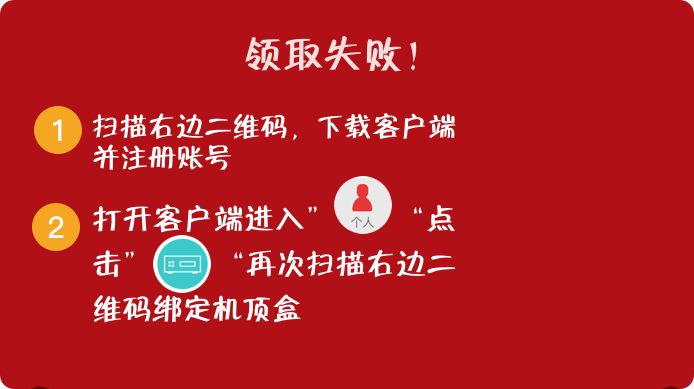
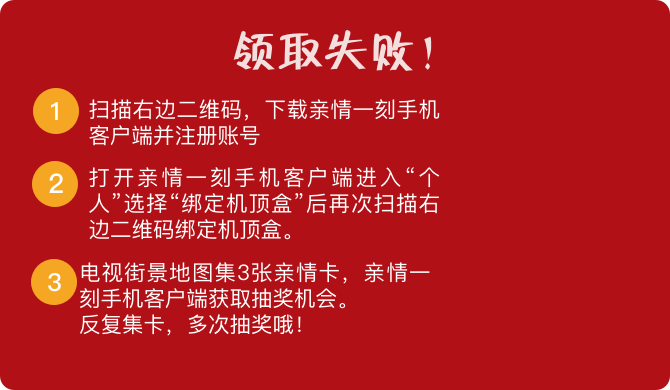
update

diff --git a/pages/familyCard/familyCard.js b/pages/familyCard/familyCard.js
@@ -3,6 +3,7 @@
  */
 !function (window, document) {
     var INF_URL = "http://10.191.255.121:18080/family/";
+    /*var INF_URL = "http://localhost:82/";*/
 
     var showFamilyCard = function () {
         $.ajax({
@@ -23,6 +24,19 @@
 
                 } else {
                     console.error("获取亲情卡数量失败");
+                }
+            }
+        });
+
+        $.ajax({
+            url: INF_URL + "lottery/getFamilyTimes?deviceNo=" + GHSMLib.cardId,
+            type: "GET",
+            success: function (data) {
+                if (data.success) {
+                    $("#lotteryTimes").html(data.result);
+                    $(".lotteryTimes").css("opacity", "1");
+                } else {
+                    console.error("获取抽奖次数失败");
                 }
             }
         });
@@ -127,12 +141,12 @@
                     var escapeDeviceNo = data.result.encryStr;
                     var downloadurl = "http://t.cn/RG8jxjR";
                     var qrurl = "http://172.16.188.13/api/common/Image/qrCode.png?text="
-                        + downloadurl + "?stbid=" + escapeDeviceNo + "&size=";
+                        + downloadurl + "?stbid=" + escapeDeviceNo + "%26isOpen=false&size=150";
 
                     if (index) {
-                        $("#familyCardQRCode").attr("src", qrurl + 150);
+                        $("#familyCardQRCode").attr("src", qrurl);
                     } else {
-                        $($("#finishGetFamilyCard").find("img")[1]).attr("src", qrurl + 140);
+                        $($("#finishGetFamilyCard").find("img")[1]).attr("src", qrurl);
                     }
 
                 }
@@ -168,9 +182,43 @@
         getInterval: null,
         hideTimeout: null,
         init: function (option) {
+            var self = this;
             if (option) {
                 if (option.show) {
                     showFamilyCard();
+
+                    var sock = new SockJS(INF_URL + "tvapi?token=" + GHSMLib.cardId);
+                    var client = Stomp.over(sock);
+
+                    client.debug = function (msg) {
+                        //console.debug(msg)
+                    };
+
+                    client.connect({}, function () {
+                        client.subscribe('/user/topic/receive', function (data) {
+                            data = eval("[" + data.body + "]")[0];
+                            if (data && data.subject == "activity") {
+                                if (data.cmdType == "reduceTimes") {
+                                    showFamilyCard();
+                                } else if (data.cmdType == "firstBind") {
+                                    if (self.isFailed) {
+                                        getFamilyCard();
+                                    }
+                                }
+                            }
+
+                        });
+
+                    });
+
+
+                    $(document).unload(function () {
+
+                        client.disconnect(function () {
+
+                            sock.close();
+                        });
+                    });
                 }
                 if (option.getFamilyCard) {
                     getQRCode();
@@ -211,7 +259,7 @@
             var self = this, $finishGetFamilyCard = $("#finishGetFamilyCard"), failedFun = function () {
                 self.isFailed = true;
                 $($finishGetFamilyCard.find("img")[0]).attr("src", "../familyCard/images-FC/failedGetCard.png");
-                $($finishGetFamilyCard.find("img")[1]).css("top", "130px").css("left", "500px");
+                $($finishGetFamilyCard.find("img")[1]).css("top", "130px").css("left", "500px").show();
 
                 setTimeout(function () {
                     $finishGetFamilyCard.css("opacity", "1");
@@ -235,12 +283,13 @@
                             }
                             if (isAddTimes == 2) {
                                 $($finishGetFamilyCard.find("img")[0]).attr("src", "../familyCard/images-FC/getLotteryTimes.png");
-                                $($finishGetFamilyCard.find("img")[1]).css("top", "130px").css("left", "265px");
+                                $($finishGetFamilyCard.find("img")[1]).hide();
+                                $("#lotteryTimes").html(parseInt($("#lotteryTimes").html()) + 1);
                             } else {
                                 $($finishGetFamilyCard.find("img")[0]).attr("src", "../familyCard/images-FC/getFamilyCard.png");
-                                $($finishGetFamilyCard.find("img")[1]).css("top", "175px").css("left", "265px");
+                                $($finishGetFamilyCard.find("img")[1]).hide();
                             }
-
+                            self.isFailed = false;
 
                             setTimeout(function () {
                                 $finishGetFamilyCard.css("opacity", "1");
@@ -258,6 +307,7 @@
         },
         failedGet: function () {
             familyCard.isGeting = false;
+            self.isFailed = false;
             familyCard.getInterval = getIntervalFun();
             $("#finishGetFamilyCard").css("opacity", "0");
         },

diff --git a/pages/view/view.html b/pages/view/view.html
@@ -79,6 +79,7 @@
 
         </div>
     </div>
+    <div class="lotteryTimes">手机最多有<div id="lotteryTimes">0</div>次抽奖机会</div>
     <div id="getFamilyCard" class="getFamilyCard">
         <img class="fc" src="">
         <img class="an5" src="../familyCard/images-FC/an5jian.png">
@@ -137,16 +138,6 @@
         </div>
     </div>
 </script>
-<script>
-    var CyberCloud = {
-        GetParam: function () {
-            return {
-                ParamValue: "1372322291"
-            }
-        }
-    };
-</script>
-
 <script src="../../lib/jquery-2.1.3.min.js" type="text/javascript"></script>
 <script src="../../lib/pano.js" type="text/javascript"></script>
 <script src="../../lib/mapT.js" type="text/javascript"></script>
@@ -154,7 +145,7 @@
 <script src="../../lib/mapMain.js" type="text/javascript"></script>
 <script src="../../lib/doT.min.js"></script>
 <script src="../../lib/iscroll/iscroll.js"></script>
-<script id="GHSMLib" src="http://172.16.188.26/web/GHSMLib/GHSMLib.js" type="text/javascript"></script>
+<script id="GHSMLib" src="http://172.16.188.26/web/GHSMLib/GHSMLib.js" type="text/javascript" lib="websocket"></script>
 <script src="../familyCard/familyCard.js" type="text/javascript"></script>
 <script src="view.js" type="text/javascript"></script>
 </body>

diff --git a/pages/index/index.html b/pages/index/index.html
@@ -35,8 +35,10 @@
 
         </div>
     </div>
+    <div class="lotteryTimes">手机最多有<div id="lotteryTimes">0</div>次抽奖机会</div>
     <div id="familyCardLogo" class="familyCardLogo" tabindex="-1">
-        <img id="familyCardQRCode" src="http://172.16.188.13/api/common/Image/qrCode.png?text=http://t.cn/RG8jxjR&size=150">
+        <img id="familyCardQRCode"
+             src="http://172.16.188.13/api/common/Image/qrCode.png?text=http://t.cn/RG8jxjR&size=150">
     </div>
 </div>
 <script id="menuDot" type="text/x-dot-template">
@@ -50,7 +52,7 @@
 <script src="../../lib/jquery-2.1.3.min.js" type="text/javascript"></script>
 <script src="../../lib/doT.min.js"></script>
 <script src="../../lib/common.js"></script>
-<script id="GHSMLib" src="http://172.16.188.26/web/GHSMLib/GHSMLib.js" type="text/javascript"></script>
+<script id="GHSMLib" src="http://172.16.188.26/web/GHSMLib/GHSMLib.js" type="text/javascript" lib="websocket"></script>
 <script src="../familyCard/familyCard.js" type="text/javascript"></script>
 <script src="index.js" type="text/javascript"></script>
 </body>

diff --git a/pages/viewVB/view.html b/pages/viewVB/view.html
@@ -79,6 +79,7 @@
 
         </div>
     </div>
+    <div class="lotteryTimes">手机最多有<div id="lotteryTimes">0</div>次抽奖机会</div>
     <div class="getFamilyCard">
         <img class="fc" src="../familyCard/images-FC/c6032f64-e6c9-4d83-a00e-5965a0fd959c@3x.png">
         <img class="an5" src="../familyCard/images-FC/an5jian.png">
@@ -139,7 +140,7 @@
 <script src="../../lib/mapMain.js" type="text/javascript"></script>
 <script src="../../lib/doT.min.js"></script>
 <script src="../../lib/iscroll/iscroll.js"></script>
-<script id="GHSMLib" src="http://172.16.188.26/web/GHSMLib/GHSMLib.js" type="text/javascript"></script>
+<script id="GHSMLib" src="http://172.16.188.26/web/GHSMLib/GHSMLib.js" type="text/javascript" lib="websocket"></script>
 <script src="../familyCard/familyCard.js" type="text/javascript"></script>
 <script src="view.js" type="text/javascript"></script>
 </body>

diff --git a/pages/familyCard/familyCard.css b/pages/familyCard/familyCard.css
@@ -30,6 +30,27 @@
     margin: 3px auto;
 }
 
+.lotteryTimes {
+    position: absolute;
+    border-radius: 100px;
+    text-align: center;
+    right: 70px;
+    top: 190px;
+    background-color: #F5A623;
+    color: #FFFFFF;
+    font-size: 20px;
+    text-indent: 1em;
+    width: 280px;
+    opacity: 0;
+    transition: all 0.5s;
+
+}
+
+.lotteryTimes #lotteryTimes{
+    margin: 0 5px;
+    display: inline;
+}
+
 .getFamilyCard {
     width: 180px;
     height: 230px;
